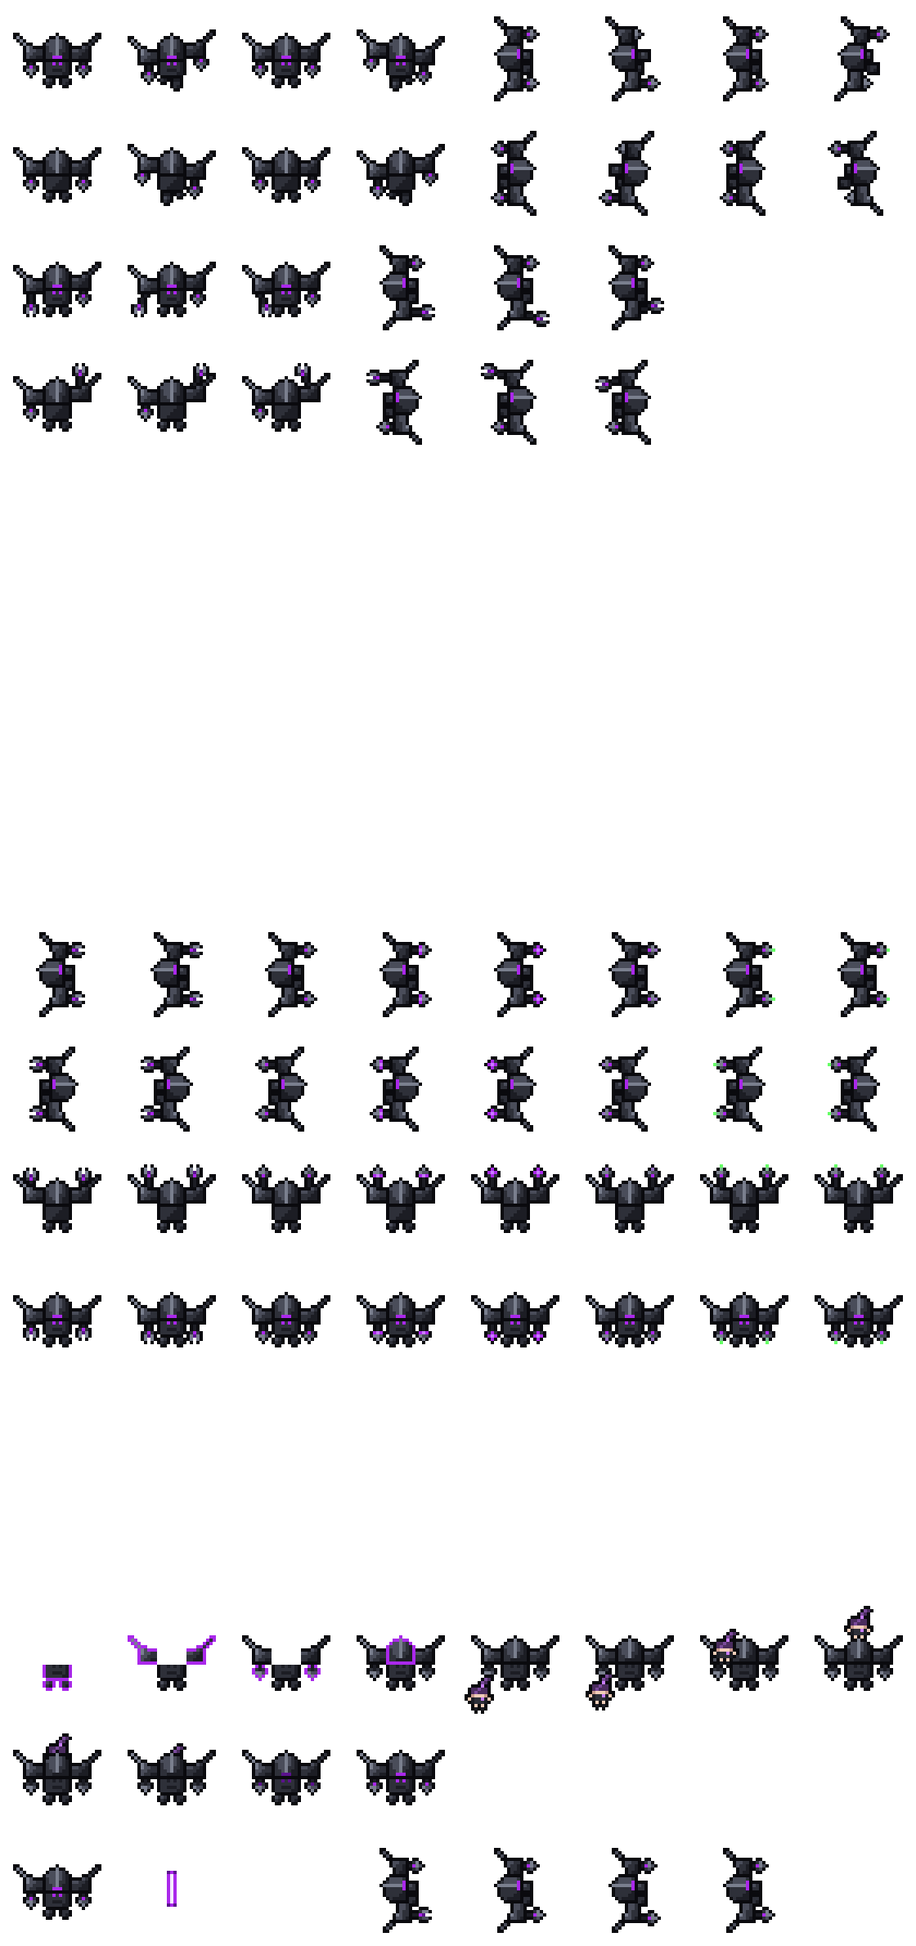
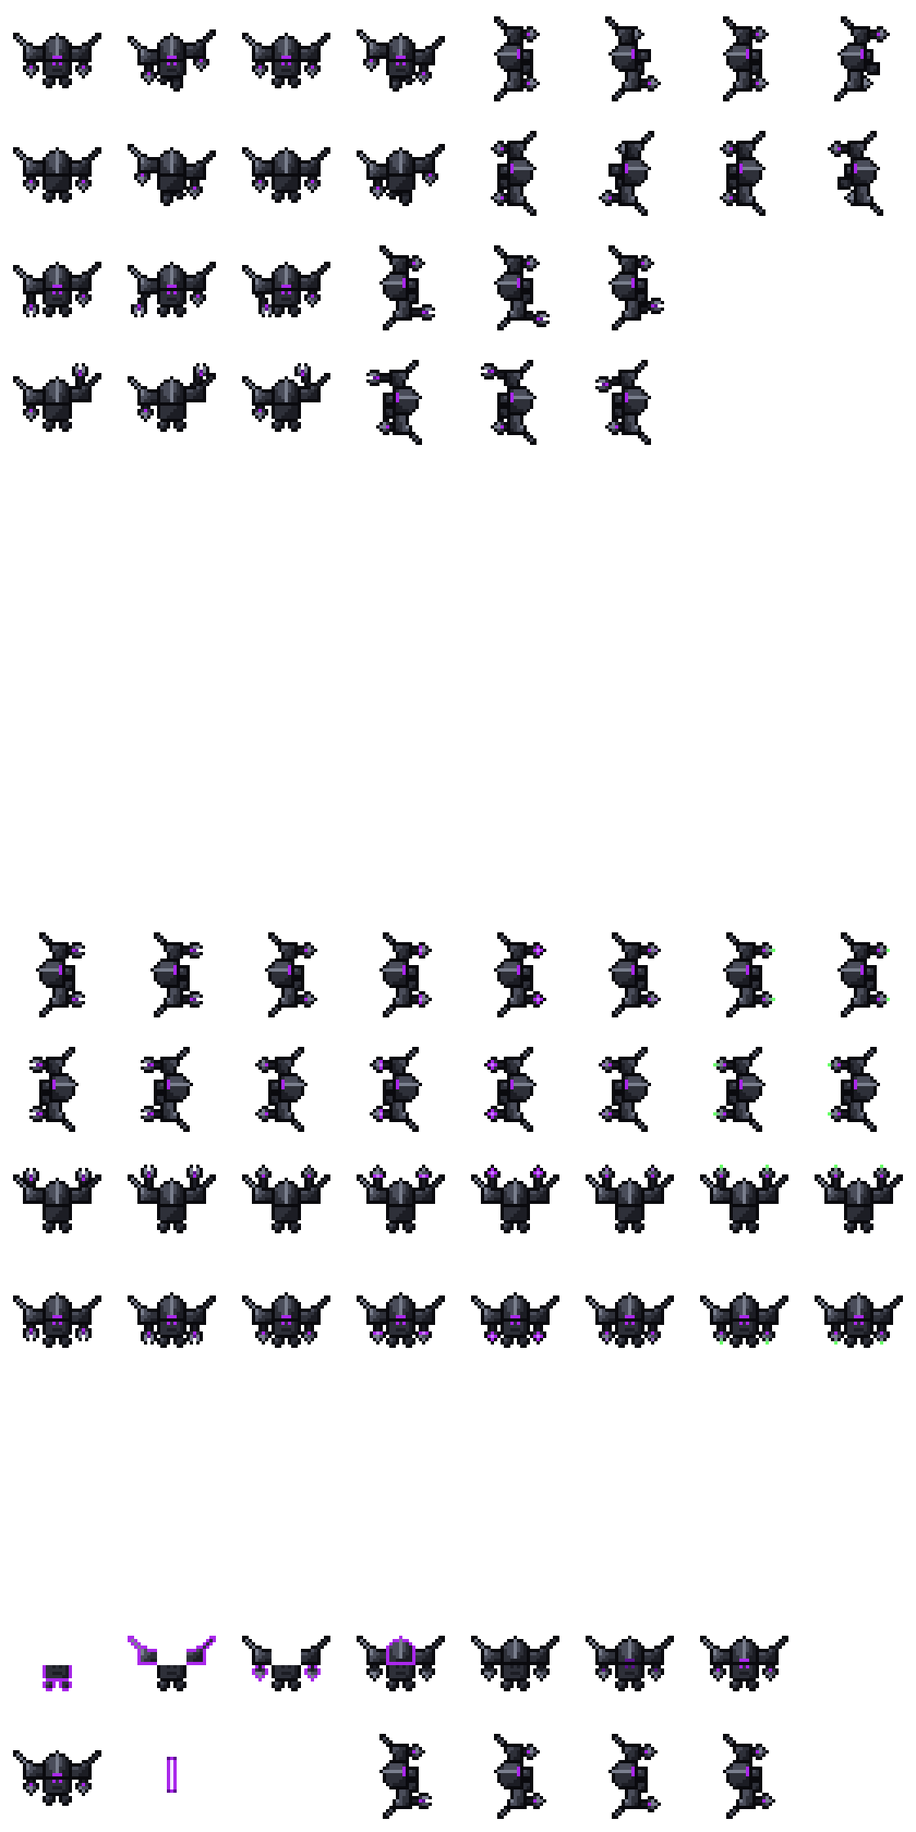
Mecha top-down test: the pilot is a sprite of her own, with a run in four directions and a jump
The suit's clone frames no longer hold her, since the game has to run her from
the clone bay to the suit. A review picture plays the whole clone bay that way.

Claude-Session: https://claude.ai/code/session_01TQ4qhujdUDh59Vp7VzLUu7

diff --git a/docs/art/mecha/crew-topdown-test/tools/build.py b/docs/art/mecha/crew-topdown-test/tools/build.py
@@ -3,13 +3,14 @@ import sys
 sys.path.insert(0, "tools")
 sys.path.insert(0, "../../terran/crew-test-4/tools")
 import mech as m
+import pilot
 from pix import Image, FRAME, scaled, strip
 
 FLOOR = (0xC4, 0xCA, 0xD2, 255)
 
 
 def sheet():
-    """Eight frames a row and seventeen rows: the genre's layout, with a row of its own for each direction of powering
+    """Eight frames a row and sixteen rows: the genre's layout, with a row of its own for each direction of powering
     a console, which takes eight frames. Rows not drawn yet are left empty, so every frame is where it will stay."""
     empty = []
     rows = [m.walk_down() + m.walk_right(), m.walk_up() + m.walk_left(),
@@ -18,7 +19,7 @@ def sheet():
             empty, empty,                                  # punching
             m.power_right(), m.power_left(), m.power_up(), m.power_down(),
             empty, empty,                                  # teleport, death
-            m.clone()[:8], m.clone()[8:],                  # the clone bay runs twelve frames, over two rows
+            m.clone(),                                     # the suit's own clone frames; its pilot is pilot.py
             [m.portrait(), m.laser_shot(), None] + m.repair()]
     picture = Image.new("RGBA", (8 * FRAME, len(rows) * FRAME), (0, 0, 0, 0))
     for y, frames in enumerate(rows):
@@ -60,6 +61,49 @@ def beside_the_drifter(name):
     picture.save(name)
 
 
+def pilot_sheet():
+    """The pilot's own sheet: her run on rows 1 and 2 in the suit's layout, her jump on row 3."""
+    rows = [pilot.run_down() + pilot.run_right(), pilot.run_up() + pilot.run_left(), [pilot.jump()]]
+    picture = Image.new("RGBA", (8 * FRAME, len(rows) * FRAME), (0, 0, 0, 0))
+    for y, frames in enumerate(rows):
+        for x, frame in enumerate(frames):
+            picture.alpha_composite(frame, (x * FRAME, y * FRAME))
+    return picture
+
+
+def clone_bay(name, times, milliseconds=150):
+    """How the game would play it: the suit is built and waits; the pilot runs to it from the side the clone bay is
+    on, vaults up, hangs above its back and drops in behind it; the lights come up. A stretch of floor 80 by 40."""
+    suit, run, jump = m.clone(), pilot.run_right(), pilot.jump()
+    suit_at = (43, 5)
+    script = [(0, None), (1, None), (2, None), (3, None)]                    # (suit frame, pilot)
+    for step in range(7):                                                    # she runs in along the floor
+        script.append((m.CLONE_WAITING, (run[step % 4], (-10 + 4 * step, 10), True)))
+    script += [(m.CLONE_WAITING, (jump, (24, 4), True)),                     # vaulting, in front of the suit
+               (m.CLONE_WAITING, (jump, (36, -3), True)),
+               (m.CLONE_WAITING, (jump, (43, -6), False)),                   # above its back: drawn behind it
+               (m.CLONE_WAITING, (jump, (43, -2), False)),                   # dropping in
+               (m.CLONE_WAITING, (jump, (43, 2), False)),
+               (m.CLONE_WAITING, None), (5, None)] + [(6, None)] * 5
+    pictures = []
+    for suit_frame, her in script:
+        picture = Image.new("RGBA", (80, 40), FLOOR)
+        if her and not her[2]:
+            picture.alpha_composite(her[0], her[1]) if min(her[1]) >= 0 else paste_clipped(picture, her[0], her[1])
+        picture.alpha_composite(suit[suit_frame], suit_at)
+        if her and her[2]:
+            paste_clipped(picture, her[0], her[1])
+        pictures.append(scaled(picture, times).convert("RGB"))
+    pictures[0].save(name, save_all=True, append_images=pictures[1:], duration=milliseconds, loop=0)
+
+
+def paste_clipped(picture, image, at):
+    """Set an image on a picture where part of it may fall off the edge."""
+    layer = Image.new("RGBA", picture.size, (0, 0, 0, 0))
+    layer.paste(image, at)
+    picture.alpha_composite(layer)
+
+
 def powering(name, times, milliseconds=200):
     # he clamps on once (frames 1 and 2), then the pulse (frames 3 to 8) loops three times
     played = lambda frames: frames[:2] + frames[2:] * 3
@@ -78,11 +122,18 @@ if __name__ == "__main__":
     powering("review/powering-8x.gif", 8)
     powering("review/powering-slow-8x.gif", 8, 450)
     clone = m.clone()
-    moving("review/clone-10x.gif", [clone + clone[-1:] * 5], 10, 150)
-    moving("review/clone-slow-10x.gif", [clone + clone[-1:] * 2], 10, 500)
-    strip(clone[4:10], 9, 0, FLOOR).save("review/pilot-9x.png")
+    strip(clone, 8, 0, FLOOR).save("review/clone-suit-8x.png")
+    clone_bay("review/clone-bay-8x.gif", 8)
+    clone_bay("review/clone-bay-slow-8x.gif", 8, 400)
+    her = pilot_sheet()
+    her.save("halfmech-pilot-topdown-sheet.png")
+    scaled(her, 4).save("halfmech-pilot-topdown-sheet-4x.png")
+    moving("review/pilot-run-10x.gif", [pilot.run_down(), pilot.run_right(), pilot.run_up(), pilot.run_left()], 10)
+    crop = lambda frames: [f.crop((8, 8, 28, 28)) for f in frames]
+    strip(crop(pilot.run_down() + pilot.run_up()), 10, 0, FLOOR).save("review/pilot-run-down-up-10x.png")
+    strip(crop(pilot.run_right() + pilot.run_left() + [pilot.jump()]), 10, 0, FLOOR).save(
+        "review/pilot-run-right-left-jump-10x.png")
     moving("review/repair-8x.gif", [m.repair()], 8, 200)
-    strip(clone, 8, 0, FLOOR).save("review/clone-8x.png")
     strip(m.power_down(), 8, 0, FLOOR).save("review/powering-down-8x.png")
     strip(m.power_up(), 8, 0, FLOOR).save("review/powering-up-8x.png")
     strip(m.power_right(), 8, 0, FLOOR).save("review/powering-right-8x.png")

diff --git a/docs/art/mecha/crew-topdown-test/tools/mech.py b/docs/art/mecha/crew-topdown-test/tools/mech.py
@@ -349,34 +349,12 @@ def repair():
 
 
 # --- The clone bay: the suit is put together, and its pilot jumps in (heromedel, 2026-11-11) ----------------------
-# The one glimpse of a HalfMech out of the suit. Twelve frames. The suit is built, not grown: it goes together in its
-# own colours, unlit, a piece at a time (feet and torso, shoulder plates, arms and claws, helm), and each piece wears
-# a bright purple edge only on the frame it arrives. Then the pilot comes up beside it on the ground, vaults up
-# past its shoulder to a point above its back, and drops down and in. Then the lights come up, dim purple first, and he stands.
-# She is a girl (heromedel): long hair in a ponytail is what says so at this size. Her colours are those of
-# heromedel's HalfMech pilot art: purple hair, pale skin, dark clothes, one implant light.
-
-PILOT = [".......oo..",
-         "......oIHo.",          # her ponytail, swinging out to one side
-         ".....oIHo..",
-         "...oooLoo..",          # a bright tie where it leaves her head
-         "..oHHIHHo..",
-         "..oHIHHHo..",
-         ".ooTSSSToo.",
-         ".oSknnLkSo.",          # narrow shoulders, a hand at each side, her implant light
-         "..oknnnko..",
-         "...oSoSo...",          # bare legs
-         "...okoko...",          # and her feet
-         "....o.o...."]
-# Where she is, frame by frame (heromedel, 2026-11-11: she comes up low, on the ground; jumps to the point above the
-# back of the suit; and drops down and in). She is always drawn whole: on the ground and vaulting she is in front of
-# the suit; above and behind it, the suit itself hides what it hides, more of her each frame as she drops.
-# Think of the floor tiles: her feet are on the floor in the first two, level with the suit's feet, and nowhere near
-# it in the next four.
-PILOT_ON_THE_GROUND = [(-3, 16), (-1, 15)]            # beside the suit, then a step closer
-PILOT_VAULTS = (2, 2)                                 # up past its shoulder
-PILOT_BEHIND = [(8, -5), (8, -1), (8, 2)]             # at the top of her jump above its back, then dropping in
-
+# The suit's own frames, seven of them: it is built, not grown. It goes together in its own colours, unlit, a piece
+# at a time (feet and torso, shoulder plates, arms and claws, helm), and each piece wears a bright purple edge only
+# on the frame it arrives. Then it stands whole and unlit, waiting. Then the lights come up, dim purple first, and he
+# stands. The pilot is not in these frames: in the game she has to run from the clone bay to the suit and jump
+# (heromedel, 2026-11-11), so she is a sprite of her own (pilot.py) that the game moves. While she is in the air
+# behind the suit the game draws her before it, and the suit hides what it hides.
 
 def unlit(rows):
     return [row.replace("v", "k").replace("q", "k") for row in rows]
@@ -398,6 +376,9 @@ def recoloured(image, change):
     return out
 
 
+CLONE_WAITING = 4                 # the frame the suit holds, whole and unlit, until its pilot is in
+
+
 def clone():
     pieces = {"arms": [([ARM] + CLAW_LEFT, ARM_LEFT_AT), ([ARM] + CLAW_RIGHT, ARM_RIGHT_AT)],
               "feet": [(FOOT_LEFT, FOOT_LEFT_AT), (FOOT_RIGHT, FOOT_RIGHT_AT)],
@@ -406,26 +387,20 @@ def clone():
               "helm": [(HELM, HELM_AT)]}
     order = ("arms", "feet", "plates", "torso", "helm")          # back to front, as in every other frame
 
-    def built(have, new=(), behind=(), over=()):
-        parts = list(behind)
+    def built(have, new=()):
+        parts = []
         for name in order:
             if name in new:
                 parts += [(arriving(rows), at) for rows, at in pieces[name]]
             elif name in have:
                 parts += [(unlit(rows), at) for rows, at in pieces[name]]
-        return frame(parts + list(over), AT)
+        return frame(parts, AT)
 
-    whole = order
     return [built((), ("feet", "torso")),
             built(("feet", "torso"), ("plates",)),
             built(("feet", "torso", "plates"), ("arms",)),
             built(("feet", "torso", "plates", "arms"), ("helm",)),
-            built(whole, over=[(PILOT, PILOT_ON_THE_GROUND[0])]),
-            built(whole, over=[(PILOT, PILOT_ON_THE_GROUND[1])]),
-            built(whole, over=[(PILOT, PILOT_VAULTS)]),
-            built(whole, behind=[(PILOT, PILOT_BEHIND[0])]),
-            built(whole, behind=[(PILOT, PILOT_BEHIND[1])]),
-            built(whole, behind=[(PILOT, PILOT_BEHIND[2])]),
+            built(order),
             recoloured(figure(), {"v": "q"}),
             figure()]
 

diff --git a/docs/art/mecha/crew-topdown-test/tools/pilot.py b/docs/art/mecha/crew-topdown-test/tools/pilot.py
@@ -1,0 +1,104 @@
+"""The HalfMech pilot, out of her suit, seen from almost straight above: a sprite of her own.
+
+She is seen only in the clone bay, where she runs from the bay to her suit, jumps above its back and drops in
+(heromedel, 2026-11-11). The game moves her, so she has a run in the four directions and a jump. She is drawn like the
+top-down Terran drifter at about half his size, in the colours of heromedel's HalfMech pilot art
+(docs/art/mecha/pilot). A ponytail from a bright tie is what says "girl" at this size.
+"""
+import mech
+from mech import frame, facing_left
+
+AT = (12, 11)                    # where her own corner sits in the frame
+
+# --- Facing the camera -------------------------------------------------------------------------------------------
+HEAD = [".......oo..",
+        "......oIHo.",            # her ponytail, swinging out to one side
+        ".....oIHo..",
+        "...oooLoo..",            # a bright tie where it leaves her head
+        "..oHHIHHo..",
+        "..oHIHHHo..",
+        ".ooTSSSToo."]
+BODY = [".oSknnLkSo.",            # narrow shoulders, a hand at each side, her implant light
+        "..oknnnko.."]
+LEGS = ["...oSoSo...",            # bare legs
+        "...okoko...",            # and her feet
+        "....o.o...."]
+# Running: one hand swings back out of sight and the leg under it reaches a row further; the other leg draws up.
+BODY_RUN = [".ooknnLkSo.", "..oknnnko.."]
+LEGS_RUN = ["...oSoko...", "...oSooo...", "...oko.....", "....o......"]
+LEGS_TUCKED = ["...okoko...", "....o.o...."]            # in the air, her legs drawn up
+
+# --- Facing away -------------------------------------------------------------------------------------------------
+# From behind there is no face: her hair, the tie at her nape and the ponytail down her back.
+BACK_HEAD = ["...ooooo...", "..oHHIHHo..", "..oHIHHHo..", ".ooooLoooo."]
+BACK_BODY = [".oSknIHkSo.", "..oknHnko.."]
+BACK_BODY_RUN = [".ooknIHkSo.", "..oknHnko.."]
+
+# --- Facing right ------------------------------------------------------------------------------------------------
+# One shoulder above her head and one below; the ponytail trails behind her; a foot shows ahead when she runs.
+SIDE = ["....ooo....",
+        "...oknko...",            # far shoulder
+        ".ooooooo...",
+        "oIHLHIHSo..",            # ponytail, tie, hair, face
+        ".oooHHHTo..",
+        "...oHIHSo..",
+        "...oooooo..",
+        "...oknLSo..",            # near shoulder, implant light, hand
+        "....oooo..."]
+SIDE_RUN_NEAR_FOOT = [(9, 4, "oo"), (9, 5, "Sko"), (9, 6, "oo")]      # the near foot reaches ahead of her
+SIDE_RUN_FAR_FOOT = [(9, 2, "oo"), (9, 3, "Sko"), (9, 4, "oo")]       # then the far one
+
+
+def mirrored(rows):
+    return [row[::-1] for row in rows]
+
+
+def stacked(*parts):
+    return [row for part in parts for row in part]
+
+
+def patched(rows, patches):
+    rows = [row.ljust(13, ".") for row in rows]
+    for x, y, text in patches:
+        rows[y] = rows[y][:x] + text + rows[y][x + len(text):]
+    return rows
+
+
+def facing_down(body=BODY, legs=LEGS, flipped=False):
+    lower = stacked(body, legs)
+    if flipped:                  # the other hand and the other leg; her head and ponytail stay as they are
+        lower = mirrored(lower)
+    return frame([(stacked(HEAD, lower), (0, 0))], AT)
+
+
+def facing_up(body=BACK_BODY, legs=LEGS, flipped=False):
+    lower = stacked(body, legs)
+    if flipped:
+        lower = mirrored(lower)
+    return frame([(stacked(BACK_HEAD, lower), (0, 3))], AT)
+
+
+def facing_right(patches=()):
+    return frame([(patched(SIDE, patches), (0, 2))], AT)
+
+
+def run_down():
+    return [facing_down(), facing_down(BODY_RUN, LEGS_RUN), facing_down(), facing_down(BODY_RUN, LEGS_RUN, True)]
+
+
+def run_up():
+    return [facing_up(), facing_up(BACK_BODY_RUN, LEGS_RUN), facing_up(), facing_up(BACK_BODY_RUN, LEGS_RUN, True)]
+
+
+def run_right():
+    return [facing_right(), facing_right(SIDE_RUN_NEAR_FOOT), facing_right(), facing_right(SIDE_RUN_FAR_FOOT)]
+
+
+def run_left():
+    return facing_left(run_right())
+
+
+def jump():
+    """In the air, facing the camera, legs drawn up: the game holds this while she rises above the suit's back and
+    drops in behind it."""
+    return facing_down(BODY, LEGS_TUCKED)

diff --git a/docs/art/mecha/crew-topdown-test/README.md b/docs/art/mecha/crew-topdown-test/README.md
@@ -10,8 +10,8 @@ human sheet to follow?
 A HalfMech in its suit at the drifter's frame size (35 by 35). He is larger than the drifter, 27 pixels across with
 his spikes against 17, and that is intended: a suit is supposed to be larger than a Terran (heromedel, 2026-11-11).
 
-- `mecha-topdown-sheet.png` (and `-4x`), eight frames a row and seventeen rows: the genre's layout, with a row of
-  its own for each direction of powering a console and two for the clone bay. Rows not drawn yet are left empty, so every frame is already where
+- `mecha-topdown-sheet.png` (and `-4x`), eight frames a row and sixteen rows: the genre's layout, with a row of its
+  own for each direction of powering a console. Rows not drawn yet are left empty, so every frame is already where
   it will stay:
 
   | Row | Frames |
@@ -24,14 +24,18 @@ his spikes against 17, and that is intended: a suit is supposed to be larger tha
   | 7, 8 | Punching up and down: to come |
   | 9, 10, 11, 12 | Powering a console: right, left, up, down (8 each) |
   | 13, 14 | Teleport and death: to come |
-  | 15, 16 | The clone bay (12: eight, then four) |
-  | 17 | Portrait, crew laser shot, a gap, repair (4) |
+  | 15 | The clone bay: the suit's own frames (7) |
+  | 16 | Portrait, crew laser shot, a gap, repair (4) |
 
+- `halfmech-pilot-topdown-sheet.png` (and `-4x`): the pilot out of her suit, a sprite of her own. Row 1 run down (4)
+  and run right (4), row 2 run up (4) and run left (4), row 3 her jump (1).
 - `mecha-topdown-laser-shot.png`: his crew laser shot, the genre's bar in Mecha purple with a hot core.
 - `review/walks-8x.gif` and `-4x.gif`: the four walks moving. `review/aims-8x.gif`: the four aims, each held a
   while. `review/powering-8x.gif` and `-slow-8x.gif`: powering a console in the four directions, the
-  clamp-on once and the pulse three times. `review/clone-10x.gif` and `review/clone-slow-10x.gif`: the clone bay at
-  game speed and slowed. `review/pilot-9x.png`: the six frames with the pilot. `review/repair-8x.gif`: the repair. `review/aims-down-up-8x.png` and `review/aims-right-left-8x.png`: the aim frames laid out.
+  clamp-on once and the pulse three times. `review/clone-bay-8x.gif` and `-slow-8x.gif`: the clone bay as the game
+  would play it, the pilot running to her suit and jumping in. `review/clone-suit-8x.png`: the suit's seven clone
+  frames. `review/pilot-run-10x.gif`, `review/pilot-run-down-up-10x.png` and
+  `review/pilot-run-right-left-jump-10x.png`: the pilot's own frames. `review/repair-8x.gif`: the repair. `review/aims-down-up-8x.png` and `review/aims-right-left-8x.png`: the aim frames laid out.
   `review/views-10x.png`: the four standing views. `review/beside-the-drifter.png`: both figures at game size, twice
   and four times. `review/beside-heromedels-drawing.png`: the front view beside the drawing it follows.
 - `reference/heromedel-mecha-topdown.png` (and `-8x`): heromedel's own drawing of the suit from above, standing and
@@ -122,33 +126,49 @@ claw opens on the work, closes, turns it a pixel while the far claw steadies, an
 
 **Proposed (heromedel, 2026-11-11):** the clone animation shows a suit being put together, and a brief glimpse of a
 small HalfMech jumping into the back of it. She is drawn like the top-down Terran, in HalfMech colours, and is a
-girl. Twelve frames:
+girl.
+
+**In the game she will probably have to be scripted to run from the clone bay to the suit and jump (heromedel,
+2026-11-11).** So the art is in two parts that the game puts together, and `review/clone-bay-8x.gif` shows the whole
+of it played that way.
+
+The suit's frames, seven, on its own sheet:
 
 - Frames 1 to 4: the suit is built, not grown. It goes together in its own colours, unlit, a piece at a time: feet
   and torso, shoulder plates, arms and claws, helm. Each piece wears a bright purple edge only on the frame it
   arrives. heromedel was in two minds about a purple outline on a suit that is being constructed, not cloned
   (2026-11-11); the first version tinted the whole suit purple, and this keeps the colour to the arriving piece.
-- Frames 5 and 6: the pilot comes up low, on the ground: beside the suit, her feet on the floor level with its
-  feet, then a step closer.
-- Frame 7: she vaults up past its shoulder.
-- Frame 8: she is at the top of her jump, above the back of the suit. Seen from almost straight above, a thing that
-  is higher sits further up the screen, so the top of her jump is above the helm.
-- Frames 9 and 10: she drops down behind the helm and in. She is drawn whole each time and the suit hides what it
-  hides, more of her each frame, until only her ponytail shows.
-- Frame 11: the lights come up dim, in deep purple. Frame 12: he stands. The first version flashed the lights pale
-  for a frame, which read as the suit staying white before powering (heromedel, 2026-11-11).
-- How this staging was reached (heromedel, 2026-11-11): she approaches low, jumps to that point and drops in. Two
-  tries in between were wrong. One showed only her hair over the helm as she came up, which read as hair floating
-  in with no face or body; the other stood her whole on the floor straight behind the suit, with no feet drawn and
-  no real jump. Both came from drawing only the few pixels of her that the drop leaves visible. The test for
-  ground against air is to imagine the floor tiles round the suit, or her shadow on them.
-- **The pilot:** purple hair in a ponytail that swings out to one side from a bright tie, pale skin, dark clothes,
-  narrow shoulders with a hand at each side, bare legs and feet, one implant light; the colours of heromedel's HalfMech pilot art
-  (`docs/art/mecha/pilot`). The ponytail is what says "girl" at this size. The first pilot had her fists raised
-  above her head, which read as a boy making a rude gesture with both hands (heromedel, 2026-11-11); a second try
-  with a ponytail straight up read as a pointed hat.
-- This is the one place a HalfMech is seen out of the suit. The style guide and the pilot's README said there were
-  no plans to show one; both now note this glimpse.
+- Frame 5: it stands whole and unlit. The game holds this frame until the pilot is in.
+- Frame 6: the lights come up dim, in deep purple. Frame 7: he stands. The first version flashed the lights pale for
+  a frame, which read as the suit staying white before powering (heromedel, 2026-11-11).
+
+The pilot's frames, on a sheet of her own (`tools/pilot.py`):
+
+- A run in the four directions, four frames each, and one frame in the air with her legs drawn up.
+- **How she looks:** purple hair in a ponytail that swings out to one side from a bright tie, pale skin, dark
+  clothes, narrow shoulders with a hand at each side, bare legs and feet, one implant light; the colours of
+  heromedel's HalfMech pilot art (`docs/art/mecha/pilot`). The ponytail is what says "girl" at this size. The first
+  pilot had her fists raised above her head, which read as a boy making a rude gesture with both hands (heromedel,
+  2026-11-11); a second try with a ponytail straight up read as a pointed hat. From behind, the ponytail hangs down
+  her back.
+
+How the game would play it (heromedel, 2026-11-11: she comes up low, on the ground; jumps to the point above the back
+of the suit; and drops down and in):
+
+1. She runs along the floor to the suit, her feet level with its feet.
+2. She vaults up past its shoulder, drawn in front of the suit, to a point above its back. Seen from almost straight
+   above, a thing that is higher sits further up the screen, so the top of her jump is above the helm.
+3. From there she is drawn behind the suit and drops; the suit hides what it hides, more of her each frame, until
+   only her ponytail shows. She is always drawn whole.
+4. The suit's lights come up.
+
+Two tries on the way were wrong: one showed only her hair over the helm as she came up, which read as hair floating
+in with no face or body; the other stood her on the floor straight behind the suit with no feet drawn and no real
+jump. Both came from drawing only the few pixels of her that the drop leaves visible. The test for ground against
+air is to imagine the floor tiles round the suit, or her shadow on them (heromedel, 2026-11-11).
+
+This is the one place a HalfMech is seen out of the suit. The style guide and the pilot's README said there were no
+plans to show one; both now note this glimpse.
 
 ## What I think of it
 
